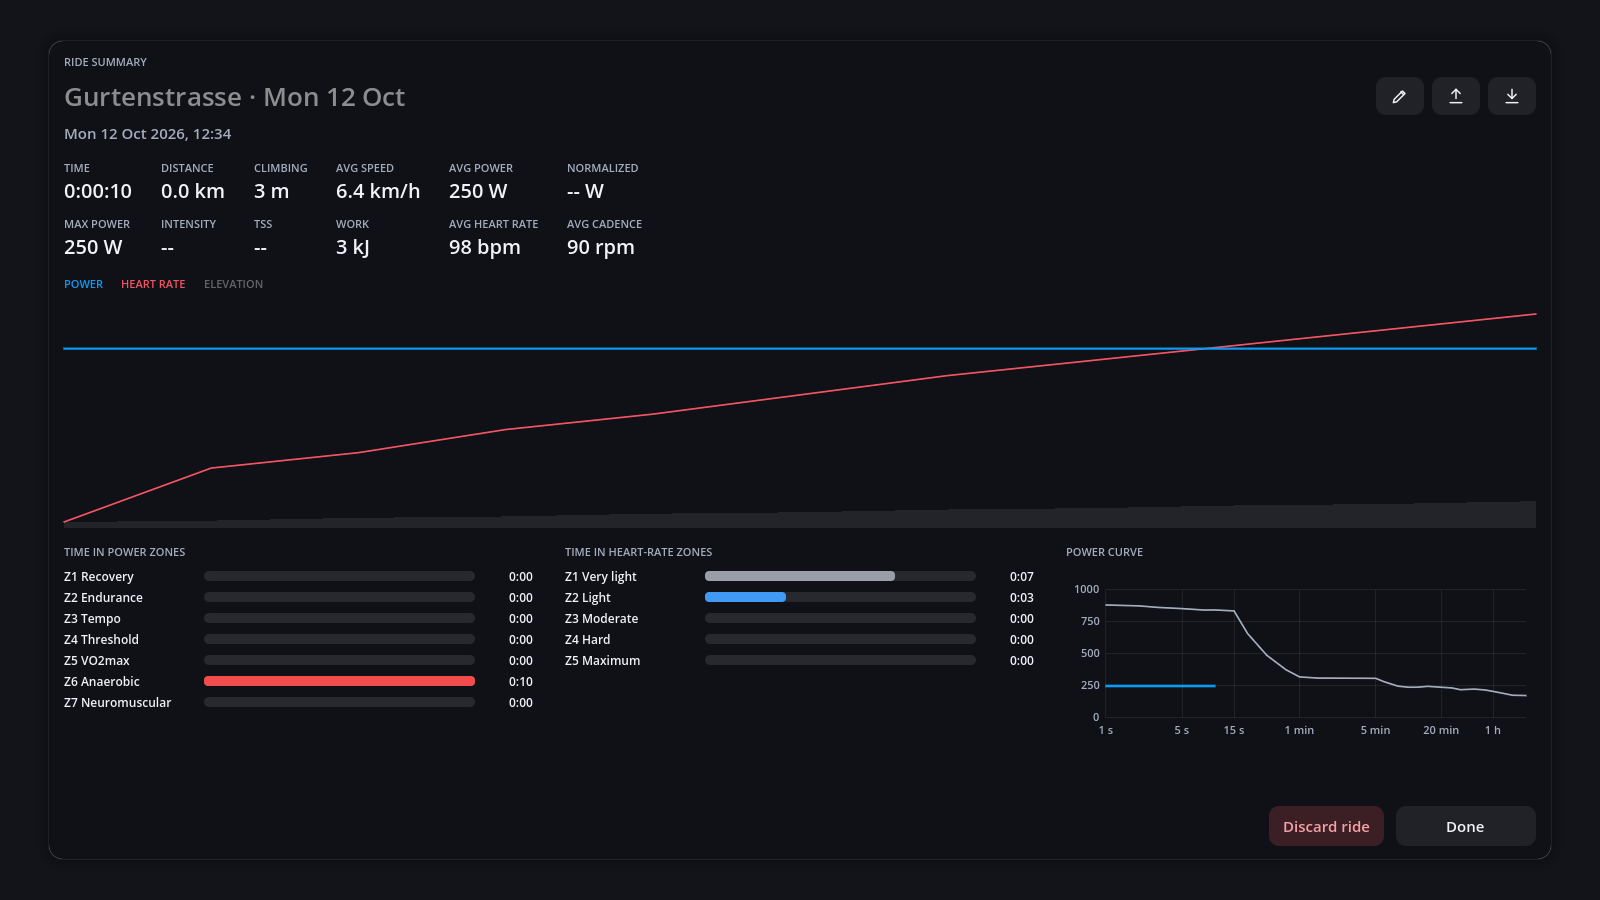
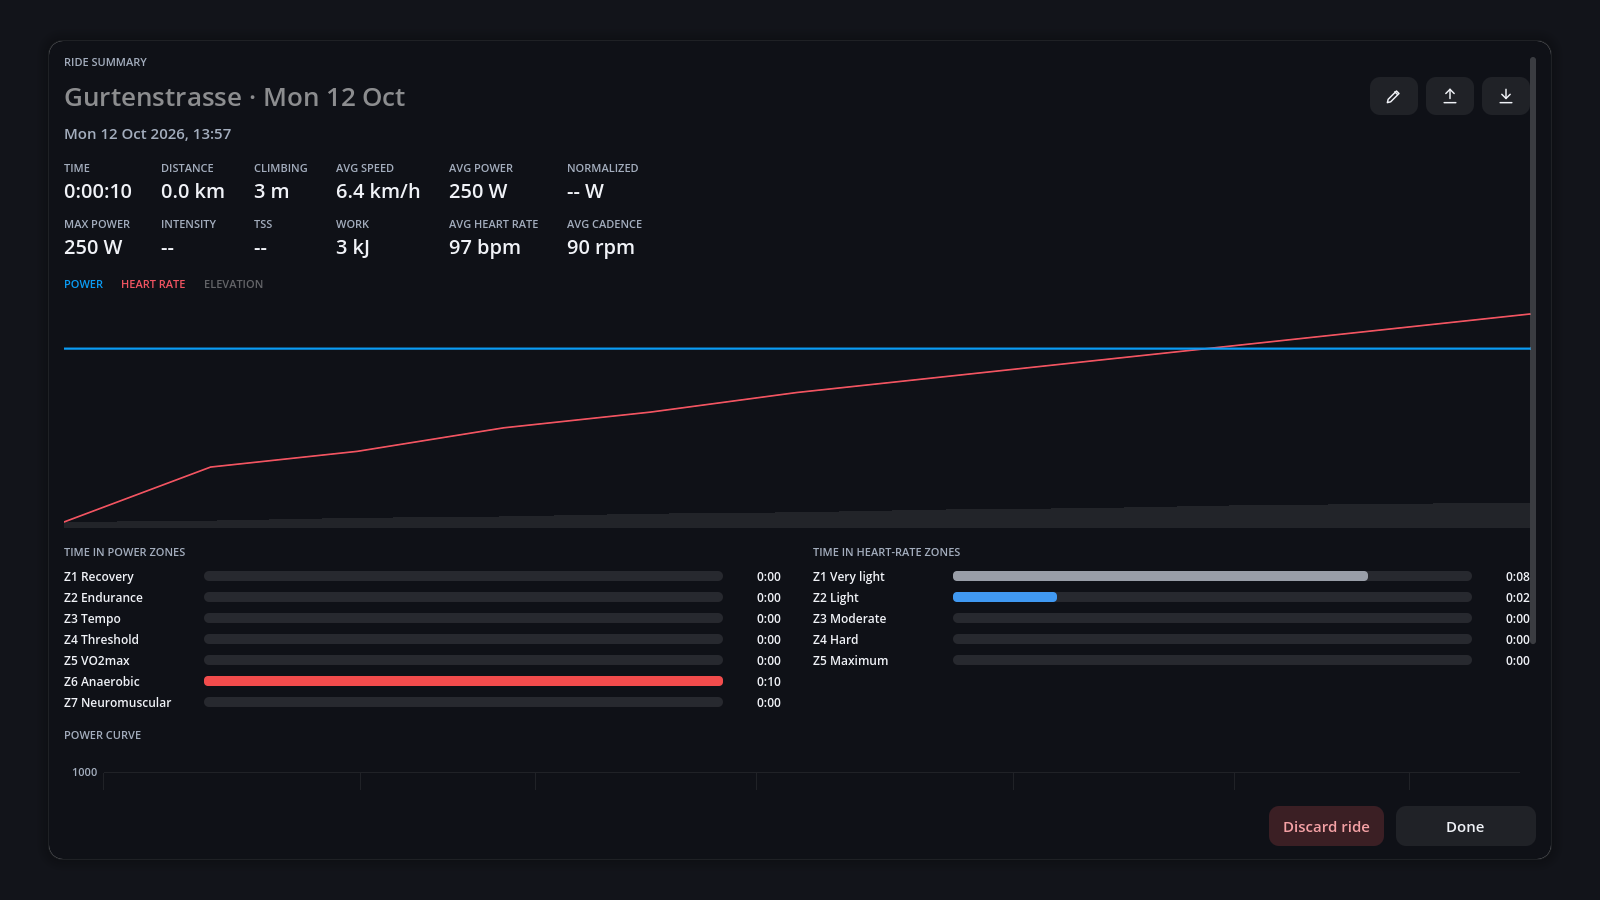
fix(history): the ride's power curve in a row of its own (#217)
Below the time in zones and as wide as the ride's chart, instead of a
third column beside them. The ride's panel scrolls; the summary's
Discard and Done stay below it.

diff --git a/docs/history.md b/docs/history.md
@@ -23,9 +23,10 @@ The history shows:
 - **Chart**: power and heart rate over the ride, on top of the elevation.
 - **Time in zones**: power zones from your FTP, heart-rate zones from your maximum heart rate
   (see [riders.md](riders.md)). Sections without data, e.g. no heart-rate strap, are hidden.
-- **Power curve**: the ride's best power over every duration from a second to the whole ride,
-  over your best of all rides in grey ([analysis.md](analysis.md)). A ★ under the figures marks
-  each duration of 5 s, 1, 5, 20 or 60 min over which the ride holds your best power.
+- **Power curve**, in a row of its own below the zones (scroll down when the window is too
+  small): the ride's best power over every duration from a second to the whole ride, over your
+  best of all rides in grey ([analysis.md](analysis.md)). A ★ under the figures marks each
+  duration of 5 s, 1, 5, 20 or 60 min over which the ride holds your best power.
 - The bin beside the title (**Delete ride**) removes the FIT file and its summary, after asking.
 - The up arrow beside the title (**Upload**) sends the ride to intervals.icu or Strava, or
   opens it there once it is uploaded ([uploads.md](uploads.md)). Uploading also works on the
@@ -33,6 +34,8 @@ The history shows:
 - The down arrow beside the title (**Export FIT file**) saves a copy of the ride's FIT file
   wherever you choose on your computer, e.g. to import it into Garmin Connect by hand. The file is named after the ride, as FIT files have no field for an activity name;
   the ride stays in the history. Export also works on the summary right after a ride.
+
+![A ride's power curve over the rider's best, below the zones](images/app/summary-curve.png)
 
 Normalized power needs at least 30 s of power data. Intensity and TSS use the FTP the rider had
 when the ride was saved, so they do not change when you update your FTP later; time in zones
